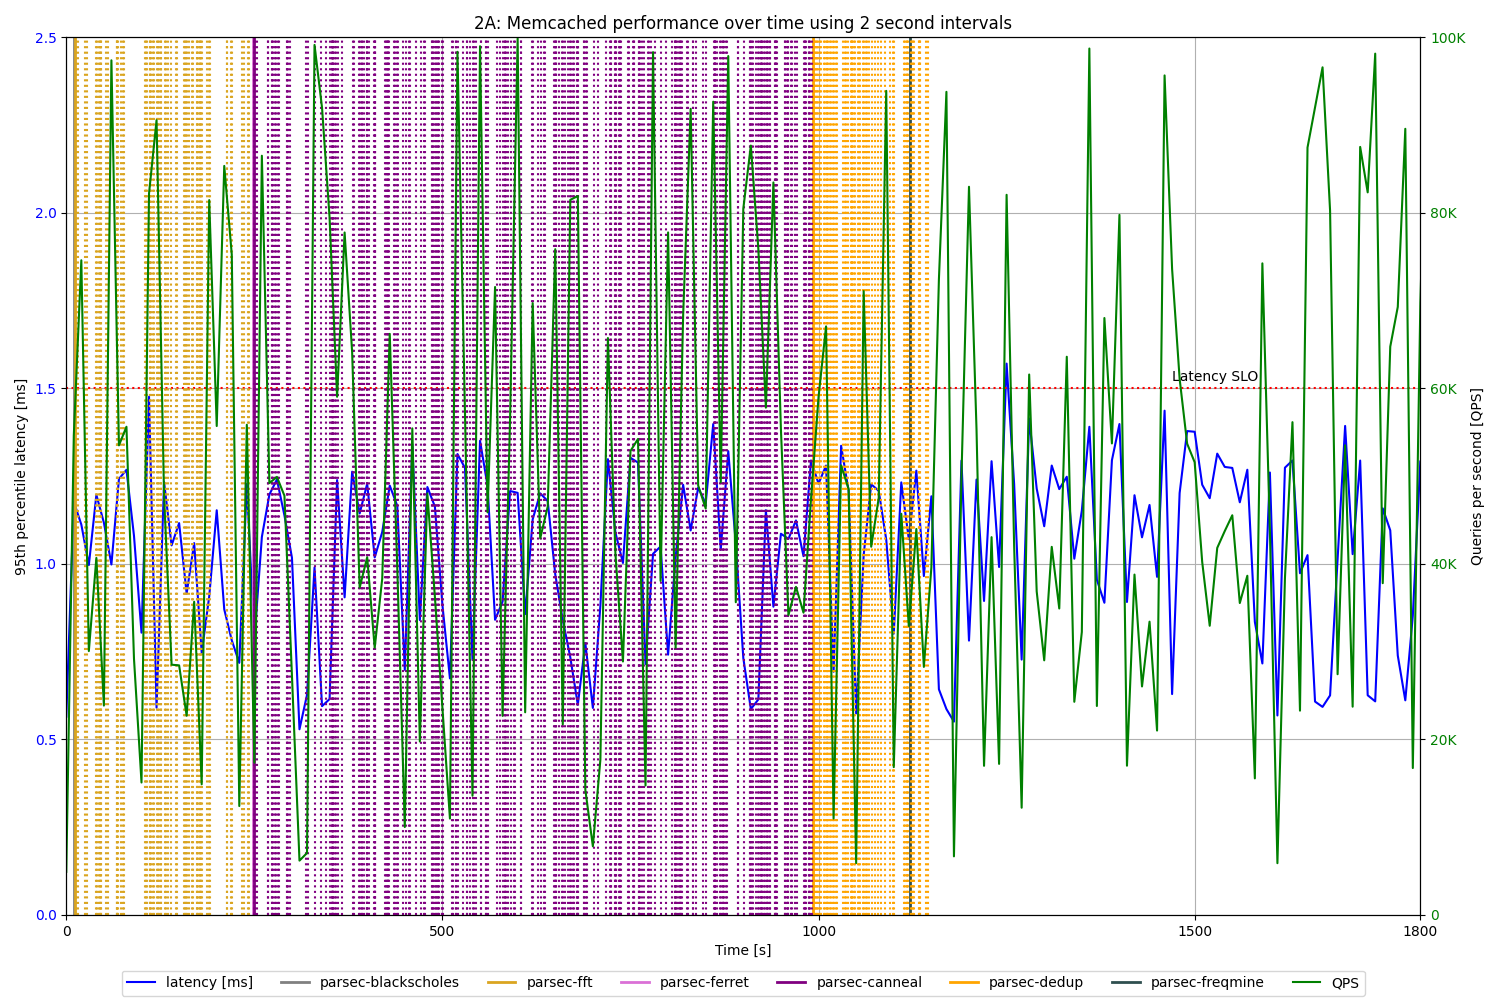
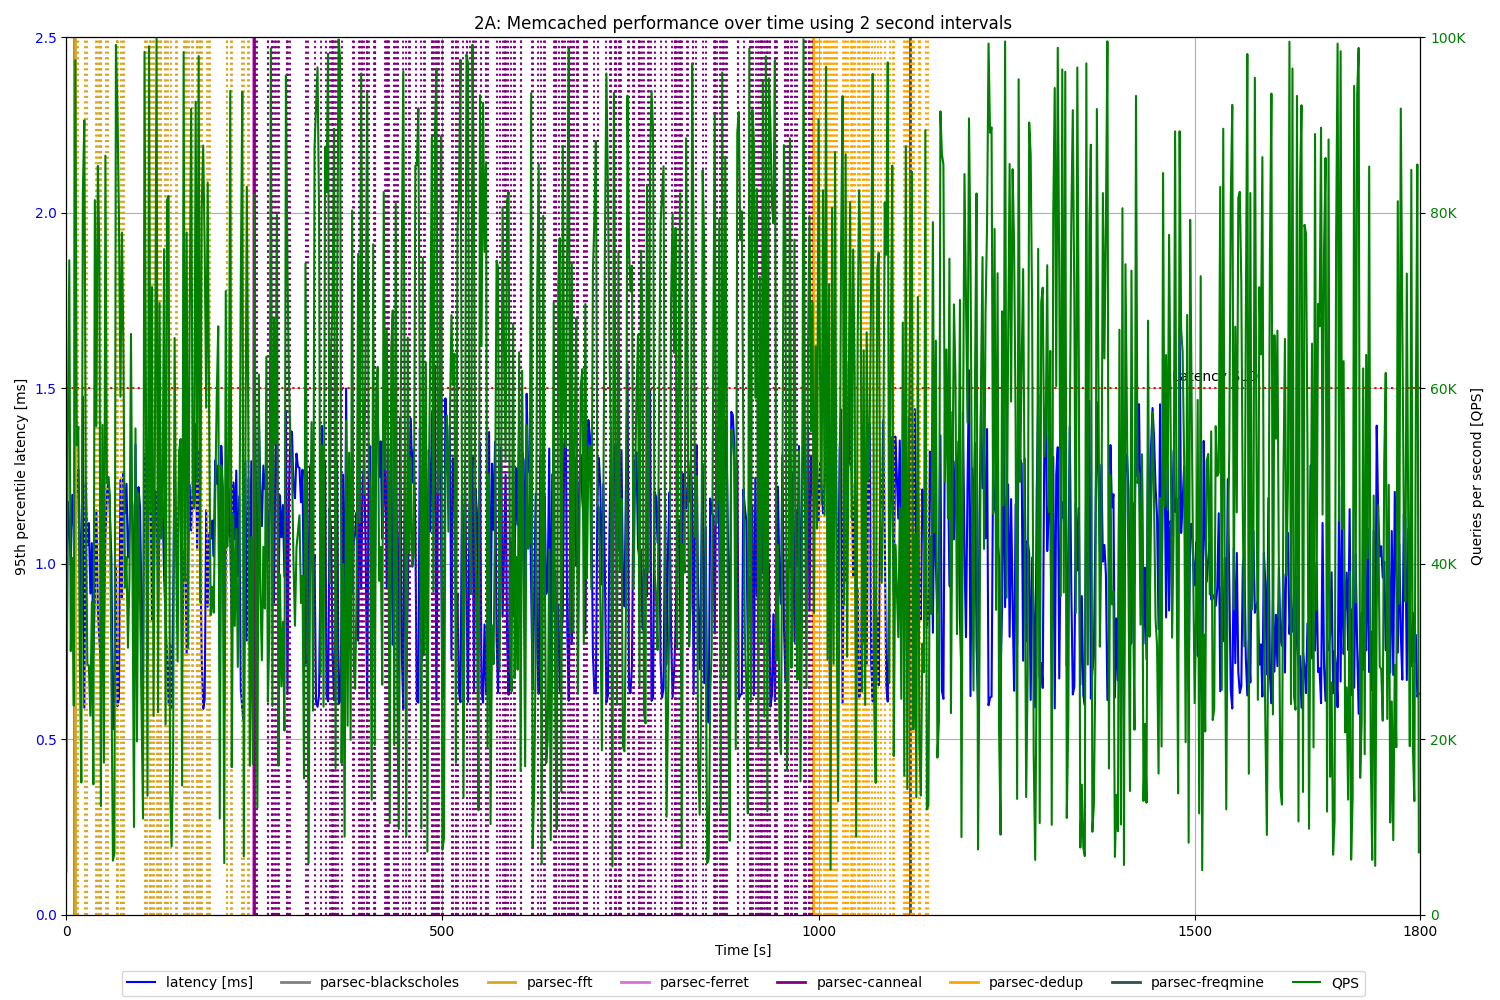
corrected plot for part 4

diff --git a/files_to_zip/controller.py b/files_to_zip/controller.py
@@ -1,0 +1,174 @@
+import psutil
+import docker
+import time
+import os
+
+def start_fft():
+    container_fft = os.popen('docker run --cpuset-cpus="1" -d --name parsec-fft anakli/parsec:splash2x-fft-native-reduced ./bin/parsecmgmt -a run -p splash2x.fft -i native -n 1').read()
+    return client.containers.get(str(container_fft)[:12])
+
+def start_freqmine():
+    container_freqmine = os.popen('docker run --cpuset-cpus="2-3" -d --name parsec-freqmine anakli/parsec:freqmine-native-reduced ./bin/parsecmgmt -a run -p freqmine -i native -n 3').read()
+    return client.containers.get(str(container_freqmine)[:12])
+
+def start_ferret():
+    container_ferret = os.popen('docker run --cpuset-cpus="2-3" -d --name parsec-ferret anakli/parsec:ferret-native-reduced ./bin/parsecmgmt -a run -p ferret -i native -n 3').read()
+    return client.containers.get(str(container_ferret)[:12])
+
+def start_canneal():
+    container_canneal = os.popen('docker run --cpuset-cpus="1" -d --name parsec-canneal anakli/parsec:canneal-native-reduced ./bin/parsecmgmt -a run -p canneal -i native -n 1').read()
+    return client.containers.get(str(container_canneal)[:12])
+
+def start_dedup():
+    container_dedup = os.popen('docker run --cpuset-cpus="1" -d --name parsec-dedup anakli/parsec:dedup-native-reduced ./bin/parsecmgmt -a run -p dedup -i native -n 1').read()
+    return client.containers.get(str(container_dedup)[:12])
+
+def start_blackscholes():
+    container_blackscholes = os.popen('docker run --cpuset-cpus="2-3" -d --name parsec-blackscholes anakli/parsec:blackscholes-native-reduced ./bin/parsecmgmt -a run -p blackscholes -i native -n 2').read()
+    return client.containers.get(str(container_blackscholes)[:12])
+
+
+def start_controller():
+    print('Starting controller')
+    start_time = time.time()
+    print(start_time)
+
+    highprio_task_list = [start_ferret, start_freqmine]
+    lowprio_task_list = [start_canneal, start_dedup]
+
+    highprio_task = start_blackscholes()
+    start_highprio_task = time.time()
+    print("STARTED: " + highprio_task.name + " " + str(start_highprio_task))
+
+    lowprio_task = start_fft()
+    start_lowprio_task = time.time()
+    print("STARTED: " + lowprio_task.name + " " + str(start_lowprio_task))
+
+    counter_time = time.time()
+
+    # Get memcached process id to change number of cores afterwards (taskset)
+    memcached_name = "memcached"
+    memcached_pid = None
+
+    for proc in psutil.process_iter():
+        if memcached_name in proc.name():
+            memcached_pid = proc.pid
+
+    print(memcached_pid)
+    memcached_state = 0
+
+    os.system("docker inspect -f '{{.State.Status}}' " + highprio_task.name)
+    print(highprio_task.status)
+
+    high_list_finished = 0
+    low_list_finished = 0
+
+    while True:
+        (cpu0, cpu1, cpu2, cpu3) = psutil.cpu_percent(interval=0.1, percpu=True)
+        highprio_state = os.popen("docker inspect -f '{{.State.Status}}' " + highprio_task.name).read()
+        lowprio_state = os.popen("docker inspect -f '{{.State.Status}}' " + lowprio_task.name).read()
+        if (counter_time + 10 < time.time()):
+            print("[" + str(cpu0) + " , " + str(cpu1) + " , " + str(cpu2) + " , " + str(cpu3) + "]")
+            print("High priority task: " + highprio_task.name + " in state " + highprio_state + " and low proirity task: " + lowprio_task.name + " in state " + lowprio_state)
+            print("High priority task list: " + str(len(highprio_task_list)))
+            print("Low priority task list: " + str(len(lowprio_task_list)))
+            counter_time = time.time()
+
+        if (highprio_state[:7] == "running"):
+            pass
+
+        elif (highprio_state[:6] == "exited" and high_list_finished == 0):
+            try:
+                high_stop_time = time.time()
+                high_duration = high_stop_time - start_highprio_task
+                print("EXITED: " + highprio_task.name + " " + str(high_duration) + " " + str(start_highprio_task))
+                highprio_task = highprio_task_list.pop(0)()
+                if (low_list_finished == 1):
+                    os.system("docker update --cpuset-cpus 1-3 " + highprio_task.id)
+                start_highprio_task = time.time()
+                print("STARTED: " + highprio_task.name + " " + str(start_highprio_task))
+            except:
+                high_list_finished = 1
+                print("High exception at exit")
+
+        elif (highprio_state == "created"):
+            pass
+            
+        elif (highprio_state == "restarting"):
+            pass
+
+        elif (highprio_state == "paused"):
+            pass
+
+        elif (highprio_state[:4] == "dead"):
+            print("Container DEAD: " + highprio_task.name)
+
+
+
+        if (lowprio_state[:7] == "running"):
+            pass
+
+        elif (lowprio_state[:6] == "exited" and low_list_finished == 0):
+            try:
+                low_stop_time = time.time()
+                low_duration = low_stop_time - start_lowprio_task
+                print("EXITED: " + lowprio_task.name + " " + str(low_duration) + " " + str(start_lowprio_task))
+                lowprio_task = lowprio_task_list.pop(0)()
+                start_lowprio_task = time.time()
+                print("STARTED: " + lowprio_task.name + " " + str(start_lowprio_task))
+            except:
+                low_list_finished = 1
+                print("Low exception at exit")
+                os.system("docker update --cpuset-cpus 1-3 " + highprio_task.id)
+
+        elif (lowprio_state[:7] == "created"):
+            pass
+
+        elif (lowprio_state == "restarting"):
+            pass
+
+        elif (lowprio_state == "paused"):
+            pass
+
+        elif (lowprio_state[:4] == "dead"):
+            print("Container DEAD: " + lowprio_task.name)
+
+
+        if (cpu0 > 90):
+            if (low_list_finished == 0):
+                os.system("docker pause " + lowprio_task.id + " >/dev/null 2>&1")
+                print("PAUSED: " + lowprio_task.name + " " + str(time.time()))
+            else:
+                os.system("docker update --cpuset-cpus 2-3 " + highprio_task.id)
+                print("UPDATE: 2-3cores" + highprio_task.name + " " + str(time.time() - start_time))
+        elif (cpu0 + cpu1 < 75):
+            if (low_list_finished == 0):
+                os.system("docker unpause " + lowprio_task.id + " >/dev/null 2>&1")
+                print("UNPAUSED: " + lowprio_task.name + " " + str(time.time()))
+            else:
+                os.system("docker update --cpuset-cpus 1-3 " + highprio_task.id)
+                print("UPDATE: 1-3cores" + highprio_task.name + " " + str(time.time() - start_time))
+
+
+        if ((cpu0 > 60) and (memcached_state == 0)):
+            os.system("taskset -a -cp 0-1 " + str(memcached_pid) + " >/dev/null 2>&1")
+            if (low_list_finished == 0):
+                os.system("docker update --cpu-shares 512 " + lowprio_task.id)
+            else:
+                os.system("docker update --cpu-shares 512 " + highprio_task.id)
+            print("MEMCACHED: 2 " + str(time.time()))
+            memcached_state = 1
+        elif ((cpu0 < 30) and (memcached_state == 1)):
+            os.system("taskset -a -cp 0 " + str(memcached_pid) + " >/dev/null 2>&1")
+            if (low_list_finished == 0):
+                os.system("docker update --cpu-shares 1024 " + lowprio_task.id)
+            else:
+                os.system("docker update --cpu-shares 1024 " + highprio_task.id)
+            print("MEMCACHED: 1 " + str(time.time()))
+            memcached_state = 0
+
+
+if __name__ == '__main__':
+    os.system("sudo usermod -a -G docker ubuntu")
+    client = docker.from_env()
+    start_controller()

diff --git a/part4/main_4.py b/part4/main_4.py
@@ -31,7 +31,7 @@ def comma_str(inputs):
 #lowerlimits = [False, True] * 5
 
 # open file with raw data, go to first line with data
-raw_data = open("raw_data_4_4_3.txt", "r")
+raw_data = open("raw_data_4_4_1.txt", "r")
 
 def find_start_of_dataset(file, start_str):
     raw_data_row = raw_data.readline()
@@ -63,7 +63,7 @@ def create_avg_data_arrays(file):
     y_data = []
     z_data = []
     for i in range(len(run1[1])):
-        x_data.append(10*i)
+        x_data.append(2*i)
         y_data.append((run1[1][i]) / 1000)
         z_data.append(run1[2][i])
     return (x_data, y_data, z_data)
@@ -186,15 +186,15 @@ total_end_time = int(comma_str(find_start_of_dataset(raw_data, "Timestamp end"))
 starting_times = find_times(raw_data, total_start_time/1000, "STARTED:")
 
 raw_data.close()
-raw_data = open("raw_data_4_4_3.txt", "r")
+raw_data = open("raw_data_4_4_1.txt", "r")
 paused_times = find_pause_times(raw_data, total_start_time/1000, "PAUSED:")
 raw_data.close()
-raw_data = open("raw_data_4_4_3.txt", "r")
+raw_data = open("raw_data_4_4_1.txt", "r")
 unpaused_times = find_pause_times(raw_data, total_start_time/1000, "UNPAUSED:")
 #(x1_2, y1_2, z1_2) = create_all_data_arrays(raw_data)
 
 raw_data.close()
-raw_data = open("raw_data_4_4_3.txt", "r")
+raw_data = open("raw_data_4_4_1.txt", "r")
 memcached_cores = find_memcached_times(raw_data, total_start_time/1000, "MEMCACHED:")
 
 # compute execution times
@@ -281,7 +281,7 @@ plt.xlim(0, 1800)
 plt.xticks([0, 500, 1000, 1500, 1800], 
             ['0', '500', '1000', '1500', '1800'])
 plt.ylim(0, 2.5)
-plt.title("3A: Memcached performance over time using 2 second intervals")
+plt.title("1A: Memcached performance over time using 2 second intervals")
 plt.axhline(y=1.5, linestyle='dotted', color="red")
 plt.text(1470, 1.52, "Latency SLO")
 
@@ -319,7 +319,7 @@ fig.set_tight_layout(True)
 
 # Display graph
 
-pylab.savefig('plot4_4_3A.png')
+pylab.savefig('plot4_4_1A.png')
 #plt.show()
 
 
@@ -338,7 +338,7 @@ plt.xlim(0, 1800)
 plt.xticks([0, 500, 1000, 1500, 1800], 
             ['0', '500', '1000', '1500', '1800'])
 plt.ylim(0, 2.5)
-plt.title("3B: Memcached performance over time using 2 second intervals")
+plt.title("1B: Memcached performance over time using 2 second intervals")
 
 colors = {
             "parsec-fft": "goldenrod", 
@@ -373,5 +373,5 @@ fig.set_tight_layout(True)
 
 # Display graph
 
-pylab.savefig('plot4_4_3B.png')
+pylab.savefig('plot4_4_1B.png')
 #plt.show()
